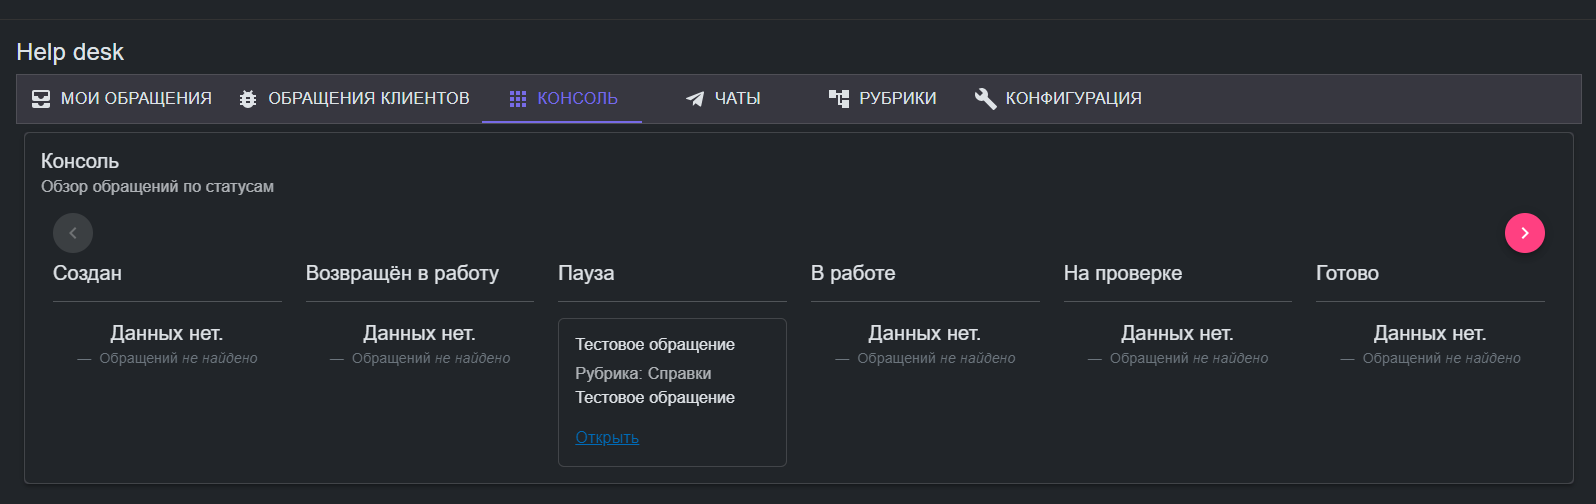
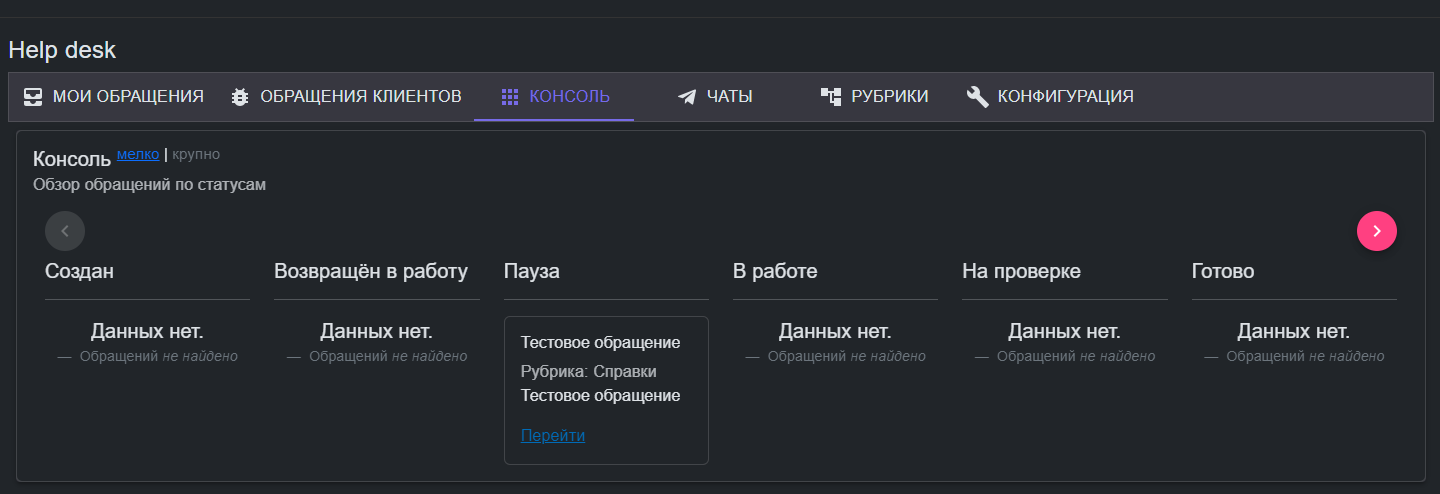
~

diff --git a/BlazorServerLib/Components/Helpdesk/ConsoleHelpdeskComponent.razor.cs b/BlazorServerLib/Components/Helpdesk/ConsoleHelpdeskComponent.razor.cs
@@ -6,6 +6,7 @@ using Microsoft.AspNetCore.Components;
 using BlazorLib;
 using SharedLib;
 using MudBlazor;
+using Microsoft.AspNetCore.Components.Authorization;
 
 namespace BlazorWebLib.Components.Helpdesk;
 
@@ -20,26 +21,37 @@ public partial class ConsoleHelpdeskComponent : BlazorBusyComponentBaseModel
     [Inject]
     ISnackbar SnackbarRepo { get; set; } = default!;
 
+    [Inject]
+    AuthenticationStateProvider authRepo { get; set; } = default!;
+
 
     readonly List<HelpdeskIssueStepsEnum> Steps = [.. Enum.GetValues(typeof(HelpdeskIssueStepsEnum)).Cast<HelpdeskIssueStepsEnum>()];
     byte stepNum;
     bool IsLarge;
+    UserInfoMainModel CurrentUser =default!;
 
-    static StorageCloudParameterModel KeyStorage => new()
+    StorageCloudParameterModel KeyStorage => new()
     {
-        ApplicationName = "",
-        Name = "",
-        PrefixPropertyName = ""
+        ApplicationName = GlobalStaticConstants.Routes.CONSOLE_CONTROLLER_NAME,
+        Name = GlobalStaticConstants.Routes.SIZE_CONTROLLER_NAME,
+        PrefixPropertyName = CurrentUser.UserId,
     };
 
     async Task ToggleSize()
     {
         IsLarge = !IsLarge;
+        IsBusyProgress = true;
+        TResponseModel<int> res = await storageRepo.SaveParameter(IsLarge, KeyStorage);
+        IsBusyProgress = false;
+        SnackbarRepo.ShowMessagesResponse(res.Messages);
     }
 
     /// <inheritdoc/>
     protected override async Task OnInitializedAsync()
     {
+        AuthenticationState state = await authRepo.GetAuthenticationStateAsync();
+        CurrentUser = state.User.ReadCurrentUserInfo() ?? throw new Exception();
+
         IsBusyProgress = true;
         TResponseModel<bool> res = await storageRepo.ReadParameter<bool>(KeyStorage);
         IsBusyProgress = false;

diff --git a/RemoteCallLib/SerializeStorage/SerializeStorageService.cs b/RemoteCallLib/SerializeStorage/SerializeStorageService.cs
@@ -84,7 +84,7 @@ public class SerializeStorageService(IDbContextFactory<CloudParametersContext> c
             {
                 await context.SaveChangesAsync();
                 success = true;
-                res.AddSuccess($"Данные успешно сохранены{(i > 0 ? $" (на попытке [{i}])" : "")}: {_set.ApplicationName}{_set.Name} > {_set.PrefixPropertyName}");
+                res.AddSuccess($"Данные успешно сохранены{(i > 0 ? $" (на попытке [{i}])" : "")}: {_set.ApplicationName}{_set.Name}");
                 res.Response = _set.Id;
             }
             catch (Exception ex)

diff --git a/SharedLib/GlobalStaticConstants.cs b/SharedLib/GlobalStaticConstants.cs
@@ -395,6 +395,11 @@ public static partial class GlobalStaticConstants
         public const string CONSOLE_CONTROLLER_NAME = "console";
 
         /// <summary>
+        /// Size
+        /// </summary>
+        public const string SIZE_CONTROLLER_NAME = "size";
+
+        /// <summary>
         /// Identity
         /// </summary>
         public const string IDENTITY_CONTROLLER_NAME = "identity";

diff --git a/HelpdeskService/README.md b/HelpdeskService/README.md
@@ -20,7 +20,8 @@
 ## Консоль
 ![консоль обращений](img/console-issues.png)
 
-Консоль отображает все обращения с разбивкой по статусам. Кнопками Влево/Вправо двигает колонки для отображения тех областей, которые не влезают.
+Консоль отображает все обращения с разбивкой по статусам. Кнопками Влево/Вправо двигает колонки для отображения тех областей, которые не влезают. Две размерности колонок:
+![консоль обращений: large](img/console-issues-large.png)
 
 ## Диалог внутри обращения
 ![issue card body edit](img/issue-card-edit-body.png)
